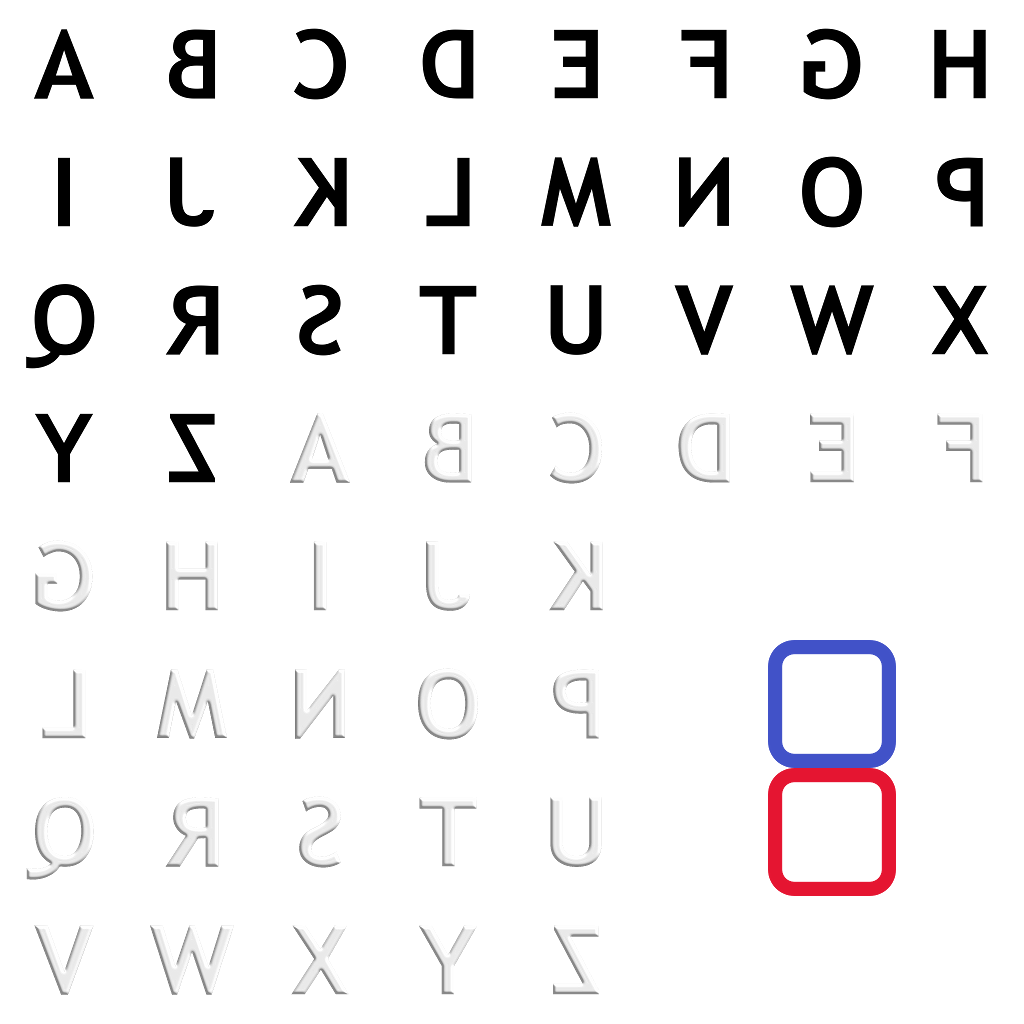
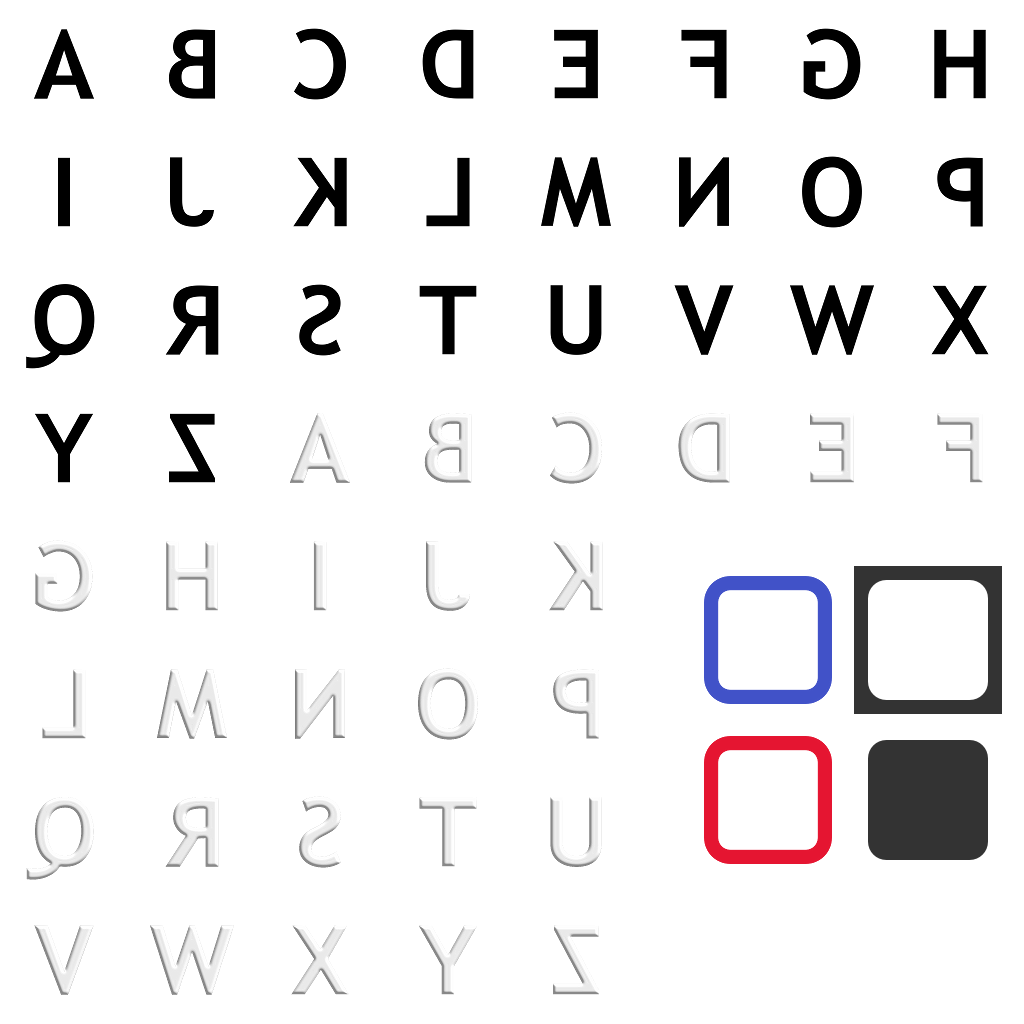
kk

Changed region(s): [[0.6875, 0.5312, 1.0, 0.875]]

diff --git a/CubeObject.js b/CubeObject.js
@@ -139,30 +139,30 @@ function CubeObjectAwake() {
     if (sceneController.cubeColorKey === "Inverse")
     {
         //tileTexture = blackSquaresTexture;
-        tileTexture.minU = 0.125;
-        tileTexture.maxU = 0.375;
-        tileTexture.minV = 0.625;
-        tileTexture.maxV = 0.875;
+        tileTexture.minU = 864/1024;
+        tileTexture.maxU = 992/1024;
+        tileTexture.minV = 160/1024;
+        tileTexture.maxV = 288/1024;
         
         //reverseTileGrid = whiteSquaresTexture;
-        reverseTileGrid.minU = 0.625;
-        reverseTileGrid.maxU = 0.875;
-        reverseTileGrid.minV = 0.125;
-        reverseTileGrid.maxV = 0.375;
+        reverseTileGrid.minU = 864/1024;
+        reverseTileGrid.maxU = 992/1024;
+        reverseTileGrid.minV = 320/1024;
+        reverseTileGrid.maxV = 448/1024;
     }
     else
     {
         //tileTexture = whiteSquaresTexture;
-        tileTexture.minU = 0.625;
-        tileTexture.maxU = 0.875;
-        tileTexture.minV = 0.125;
-        tileTexture.maxV = 0.375;
+        tileTexture.minU = 864/1024;
+        tileTexture.maxU = 992/1024;
+        tileTexture.minV = 320/1024;
+        tileTexture.maxV = 448/1024;
         
         //reverseTileGrid = blackSquaresTexture;
-        reverseTileGrid.minU = 0.125;
-        reverseTileGrid.maxU = 0.375;
-        reverseTileGrid.minV = 0.625;
-        reverseTileGrid.maxV = 0.875;
+        reverseTileGrid.minU = 864/1024;
+        reverseTileGrid.maxU = 992/1024;
+        reverseTileGrid.minV = 160/1024;
+        reverseTileGrid.maxV = 288/1024;
     }
     
     
@@ -952,16 +952,16 @@ function CubeObjectAwake() {
     }
     
     vertexBufferTextures[sceneController.cubeSize] = new Object();
-    vertexBufferTextures[sceneController.cubeSize].minU = 0.75; //Blue Marker
-    vertexBufferTextures[sceneController.cubeSize].maxU = 0.875;
-    vertexBufferTextures[sceneController.cubeSize].minV = 0.25;
-    vertexBufferTextures[sceneController.cubeSize].maxV = 0.375;
+    vertexBufferTextures[sceneController.cubeSize].minU = 704/1024; //Blue Marker
+    vertexBufferTextures[sceneController.cubeSize].maxU = 832/1024;
+    vertexBufferTextures[sceneController.cubeSize].minV = 320/1024;
+    vertexBufferTextures[sceneController.cubeSize].maxV = 448/1024;
     
     vertexBufferTextures[sceneController.cubeSize + 1] = new Object();
-    vertexBufferTextures[sceneController.cubeSize + 1].minU = 0.75; //Red Marker
-    vertexBufferTextures[sceneController.cubeSize + 1].maxU = 0.875;
-    vertexBufferTextures[sceneController.cubeSize + 1].minV = 0.125;
-    vertexBufferTextures[sceneController.cubeSize + 1].maxV = 0.25;
+    vertexBufferTextures[sceneController.cubeSize + 1].minU = 704/1024; //Red Marker
+    vertexBufferTextures[sceneController.cubeSize + 1].maxU = 832/1024;
+    vertexBufferTextures[sceneController.cubeSize + 1].minV = 160/1024;
+    vertexBufferTextures[sceneController.cubeSize + 1].maxV = 288/1024;
     
     //vertexBufferTextures[sceneController.cubeSize] = loadTexture("images/selectSquareBlue2.png");
     //vertexBufferTextures[sceneController.cubeSize + 1] = loadTexture("images/selectSquareRed.png");

diff --git a/SceneController.js b/SceneController.js
@@ -38,6 +38,7 @@ var whiteSquaresTexture;
 var blackSquaresTexture;
 var allLettersTexture;
 var squareAtlasTexture;
+var textureChangedX;
 
 
 function sceneControllerInit(){
@@ -63,13 +64,14 @@ function sceneControllerInit(){
     sceneController.currentGame = null;
     sceneController.todayDate = getTodaysDate();
     secondTime = " First";
+    textureChangedX = true;
     
     //whiteSquaresTexture = loadTexture("images/whitesquareTR65128x128.png");
     //blackSquaresTexture = loadTexture("images/blacksquareTR65128x128.png");
     //whiteSquaresTexture = loadTexture("images/whiteSquare1.png");
     //blackSquaresTexture = loadTexture("images/blackSquare1.png");
     
-    squareAtlasTexture = loadTexture("images/squareAtlas.png");
+    //squareAtlasTexture = loadTexture("images/squareAtlas.png");
     
     allLettersTexture = loadTexture("images/LettersTA1024x1024.png");
     

diff --git a/CubeMesh.js b/CubeMesh.js
@@ -22,7 +22,11 @@ function cubeMeshRender(){
     
     gl.activeTexture(gl.TEXTURE0);
     //gl.bindTexture(gl.TEXTURE_2D, tileTexture);
-    gl.bindTexture(gl.TEXTURE_2D, squareAtlasTexture);
+    //gl.bindTexture(gl.TEXTURE_2D, squareAtlasTexture);
+    if(textureChangedX){
+        textureChangedX = false;
+        gl.bindTexture(gl.TEXTURE_2D, textureAtlasLetters);
+    }
     
     // Squares
     for (var i = 0; i < tileTextureObjects.length; i++) {
@@ -119,7 +123,7 @@ function cubeMeshRender(){
     
     
     //Letters
-    gl.bindTexture(gl.TEXTURE_2D, textureAtlasLetters);
+    //gl.bindTexture(gl.TEXTURE_2D, textureAtlasLetters);
     // Rotate Letters
     //gl.uniform1f(shaderProgram.rAngleUniform, letterAngleZ);
     

diff --git a/ParticleSystem.js b/ParticleSystem.js
@@ -401,6 +401,8 @@ ParticleSystem.prototype.render = function(){
         return;
     }
     
+    textureChangedX = true;
+    
     mvPushMatrix();
     
     mat4.identity(mvMatrix);
